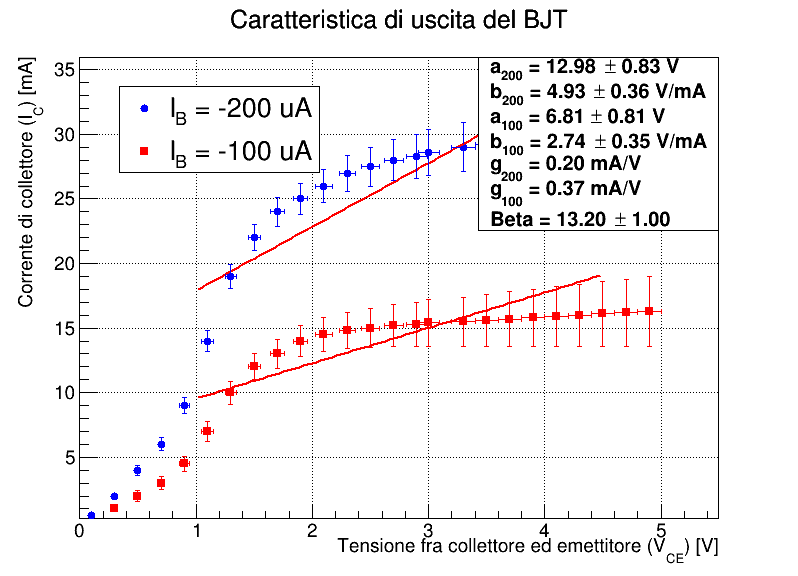
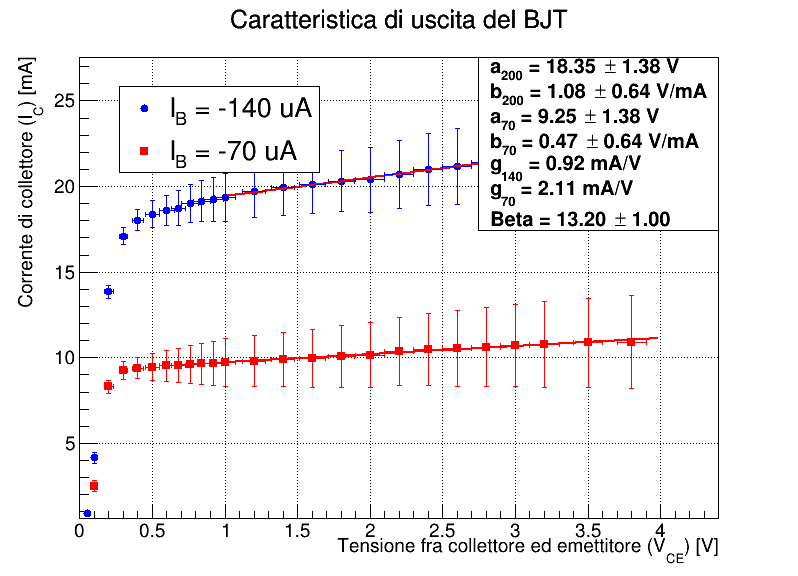
update

diff --git a/lab3_2prova/bjt_transistor_car.cpp b/lab3_2prova/bjt_transistor_car.cpp
@@ -9,13 +9,13 @@
 
 void BJT_Output_Characteristics_Table() {
     // Dati simulati: VCE, IC, e errori variabili
-    const int nPoints = 25;
-    double VCE[nPoints] = {0.1, 0.3, 0.5, 0.7, 0.9, 1.1, 1.3, 1.5, 1.7, 1.9,
-                           2.1, 2.3, 2.5, 2.7, 2.9, 3.0, 3.3, 3.5, 3.7, 3.9, 4.1, 4.3, 4.5, 4.7, 4.9};
-    double IC_140uA[nPoints] = {0.5, 2, 4, 6, 9, 14, 19, 22, 24, 25,
-                                26, 27, 27.5, 28, 28.3, 28.6, 29, 29.2, 29.4, 29.5, 29.6, 29.7, 29.8, 29.9, 30};
-    double IC_70uA[nPoints] = {0.25, 1, 2, 3, 4.5, 7, 10, 12, 13, 14,
-                                14.5, 14.8, 15, 15.2, 15.3, 15.4, 15.5, 15.6, 15.7, 15.8, 15.9, 16, 16.1, 16.2, 16.3};
+    const int nPoints = 26;
+    double VCE[nPoints] = {0.05, 0.1, 0.2, 0.3, 0.4, 0.5, 0.6, 0.68, 0.76, 0.84,
+                           0.92, 1.0, 1.2, 1.4, 1.6, 1.8, 2.0, 2.2, 2.4, 2.6, 2.8, 3.0, 3.2, 3.5, 3.8, 4.0};
+    double IC_140uA[nPoints] = {0.89, 4.15, 13.85, 17.10, 18.04, 18.38, 18.6, 18.74, 19.0, 19.15, 19.25,
+                                19.35, 19.72, 19.92, 20.14, 20.32, 20.4, 20.7, 20.97, 21.18, 21.42, 21.6, 21.9, 22.14, 22.39, 22.2};
+    double IC_70uA[nPoints] = {0.41, 2.51, 8.3, 9.26, 9.4, 9.46, 9.53, 9.57, 9.61, 9.65,
+                                9.68, 9.73, 9.81, 9.9, 9.98, 10.07, 10.15, 10.36, 10.46, 10.54, 10.61, 10.7, 10.79, 10.87, 10.91};
     double errVCE[nPoints] = {0.01, 0.02, 0.03, 0.03, 0.04, 0.05, 0.05, 0.05, 0.06, 0.06,
                               0.07, 0.07, 0.08, 0.08, 0.09, 0.09, 0.1, 0.1, 0.1, 0.1, 0.1, 0.1, 0.1, 0.1, 0.1};
     double errIC_140[nPoints] = {0.2, 0.3, 0.4, 0.5, 0.6, 0.8, 0.9, 1.0, 1.1, 1.2,
